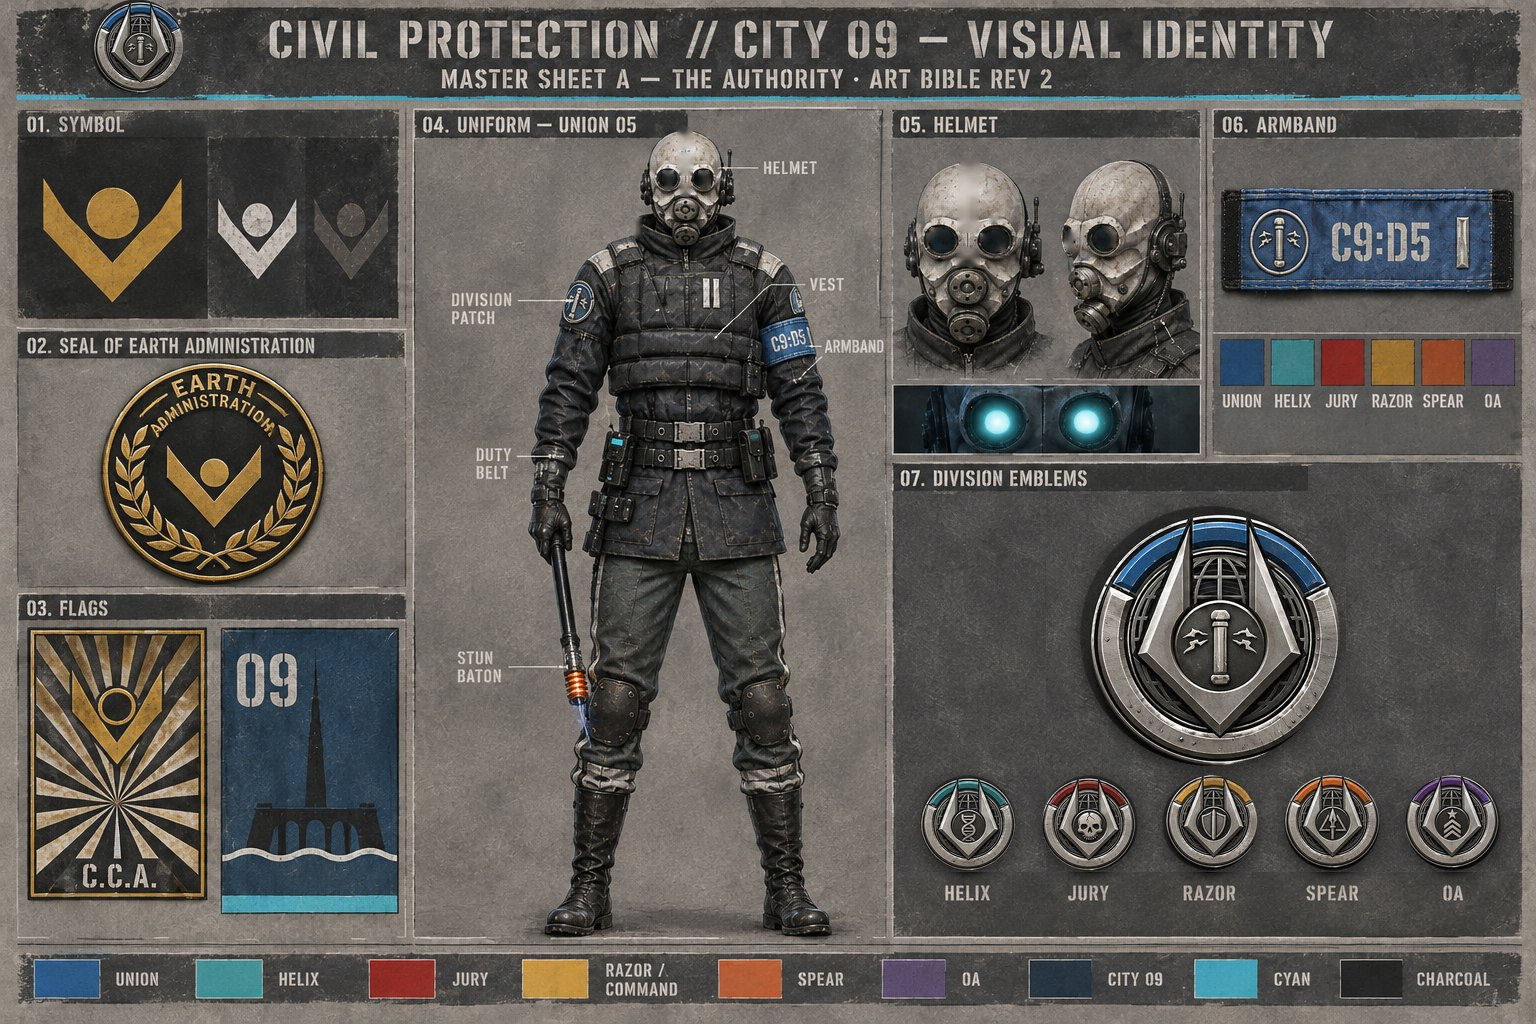
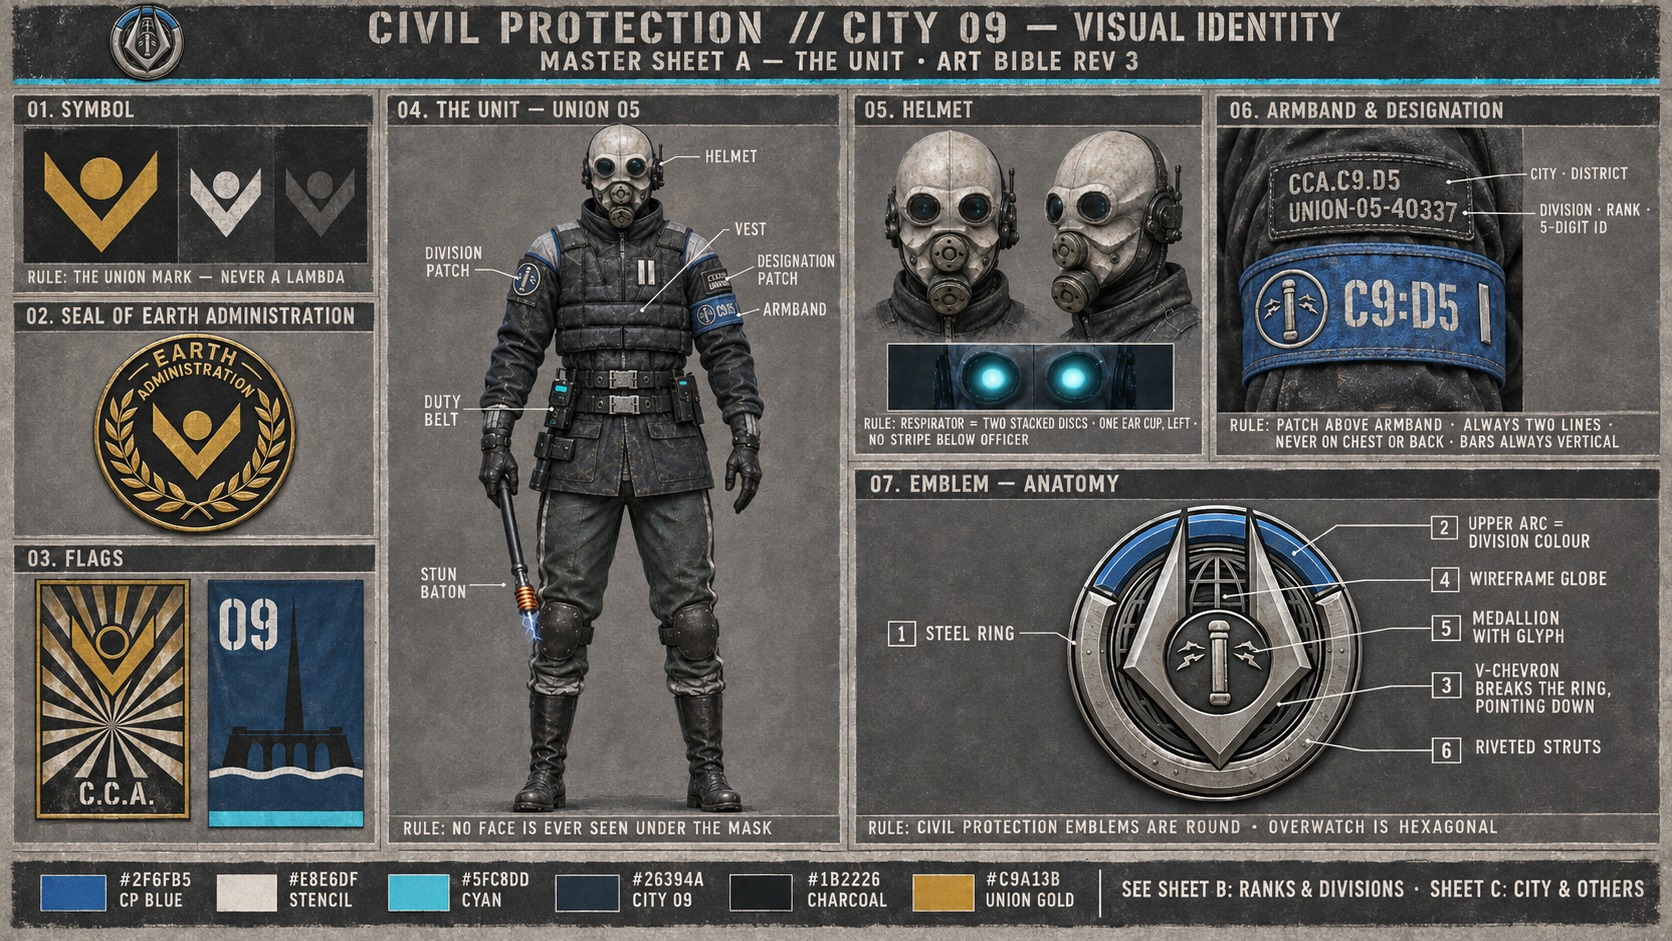
Master sheets Rev 3: A (the unit), B (ranks and divisions), C (people and machines), D (the city)
Claude-Session: https://claude.ai/code/session_01FPxW8sjExYByq8Hjg1f5Jc

diff --git a/docs/style-sheet.md b/docs/style-sheet.md
@@ -18,7 +18,7 @@ De genererade och godkända referensbilderna ligger i `assets/img/` och används
 | `emblems.jpg` + `emblems/*.png` | Divisionsemblem, helt ark och utklippta ikoner (256 px, transparent) |
 | `flag-cca.jpg`, `flag-city09.jpg` | Flaggorna |
 | `citizen-base.jpg`, `citizen-commended.jpg`, `citizen-watch.jpg` | Medborgarklädsel: bas, lojalist med utmärkelse, under bevakning |
-| `master-a.jpg` | Master A, myndigheten (Rev 2). Emblem inklistrade och hjälmränder borttagna i efterhand |
+| `master-a.jpg` … `master-d.jpg` | Masterark Rev 3: A enheten, B rang och divisioner, C människor och maskiner, D staden (se avsnitt 3b) |
 | `spire-ref.jpg` + `ref/spire-elevation.jpg`, `ref/spire-context.jpg` | Citadellet (Rev 1), helt ark plus utklippt höjdritning och stadsvy |
 | `env/e01-city.jpg`, `env/e02-apartment.jpg`, `env/e03-bazaar.jpg`, `env/e04-nexus.jpg`, `env/e05-barracks.jpg`, `env/e01-city.jpg` … `env/e16-tinker.jpg` | Alla miljöer E01 till E16 (godkända) (godkända). E01 är stilreferens för alla miljöer |
 | `citizen-cwu.jpg` | CWU, Civil Workers' Union: worker och supervisor (godkänd) |
@@ -368,7 +368,7 @@ Identiteten är delad på två masterark som hör ihop: **A** visar myndigheten 
 | C | `master-c.jpg` | Människorna och maskinerna: medborgare (5), Overwatch, Airwatch, Lantern, PT-V | A Rev 3 · citizen-base · citizen-cwu · resistance-sheet · ota-insignia · airwatch-shrike · drone-scanner |
 | D | `master-d.jpg` | Platsen: karta över distrikten, Spire, dammen, Stacks, civila byggnader, Unionens infrastruktur, kanterna (kanaler, bangård, 404) | A Rev 3 · env/e01-city · ref/spire-elevation · env/e04-nexus · env/e10-ration · env/e21-damcrest · env/e28-404-wall |
 
-Varje ark har korta RULE-rader i bilden, så att en annan AI kan läsa reglerna direkt. Full prompt-text finns i chatthistoriken (2026-11-15). Rev 2-prompterna nedan är historik.
+Varje ark har korta RULE-rader i bilden, så att en annan AI kan läsa reglerna direkt. **Klara (2026-11-15):** A Rev 3, B, C och D inlagda i `assets/img/`. Full prompt-text finns i chatthistoriken (2026-11-15). Rev 2-prompterna nedan är historik.
 
 ### MASTER A: Myndigheten
 

diff --git a/docs/design-bible.md b/docs/design-bible.md
@@ -6,6 +6,17 @@ Detaljerade prompter för enskilda bilder finns kvar i `docs/style-sheet.md`, oc
 
 ---
 
+## Masterarken: bifoga först
+
+Fyra referensark sammanfattar allt i bild, med reglerna skrivna direkt på arket. Bifoga det ark som hör till bilden du gör, före de andra referenserna:
+
+| Ark | Fil | Använd när bilden visar |
+|---|---|---|
+| A: The Unit | `assets/img/master-a.jpg` | en vanlig CP-enhet, hjälmen, armbandet, beteckningslappen, emblem, flaggor |
+| B: Ranks & Divisions | `assets/img/master-b.jpg` | rang, divisioner, EpU, High Command, VEIL |
+| C: People & Machines | `assets/img/master-c.jpg` | medborgare, CWU, kanalceller, Overwatch, Airwatch, Lantern, PT-V |
+| D: The City | `assets/img/master-d.jpg` | platser, Spire, dammen, Stacks, Nexus, infrastruktur, 404 |
+
 ## Del A: Kanon (klistra in)
 
 ```
